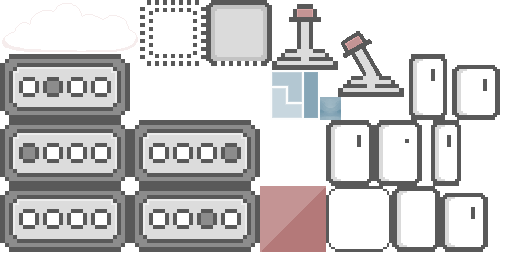
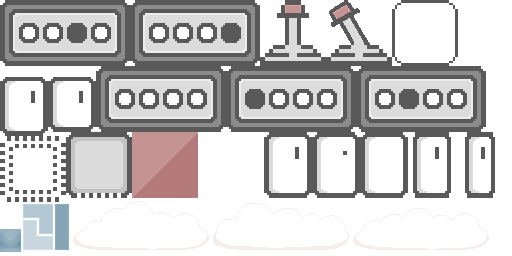
Cleaning up some minor details... doors, programmables, clouds, etc.

diff --git a/core/src/core/WeatherSystem.java b/core/src/core/WeatherSystem.java
@@ -128,6 +128,7 @@ public class WeatherSystem implements IRender, IUpdate {
 				if(_cloudMap[row][col] == null) {
 					pos = _getCloudPosition(row, col);
 					ParticleEffect cloud = Globals.getParticleEffectManager().getParticleEffect("cloud", pos.x, pos.y);
+					cloud.imageKey("cloud_" + MathUtils.random(1, 3));
 					cloud.minMaxSize(Globals.getCamera().getViewportWidth() * 0.5f, Globals.getCamera().getViewportWidth());
 					cloud.fadeIn(randomFadeIn ? MathUtils.randomBoolean(0.3f) : true);
 		            cloud.buildParticles();

diff --git a/core/src/entity/DoorEntity.java b/core/src/entity/DoorEntity.java
@@ -31,7 +31,8 @@ public class DoorEntity extends Entity implements IInteractive {
 		Player player = Globals.getPlayer();
 		if(overlapsEntity(player)) {
 			DoorEntity door = (DoorEntity)Globals.getCurrentRoom().getEntityById(_exitDoorId);
-			player.setPosition(door.getCenterX(), door.getCenterY());
+			float y = door.getBottom() - (player.getHeight() / 2);
+			player.setPosition(door.getCenterX(), y);
 		}
 	}
 }

diff --git a/core/src/entity/Player.java b/core/src/entity/Player.java
@@ -101,6 +101,9 @@ public final class Player extends Entity {
 	public void setPosition(float centerX, float centerY) {
 		_lastActualPos.set(centerX, centerY);		
 		super.setPosition(centerX, centerY);
+		
+		// HACK: Player may get suspended in mid air.
+		setLinearVelocity(0, 0.00001f);
 	}
 	
 	public boolean jump() {
